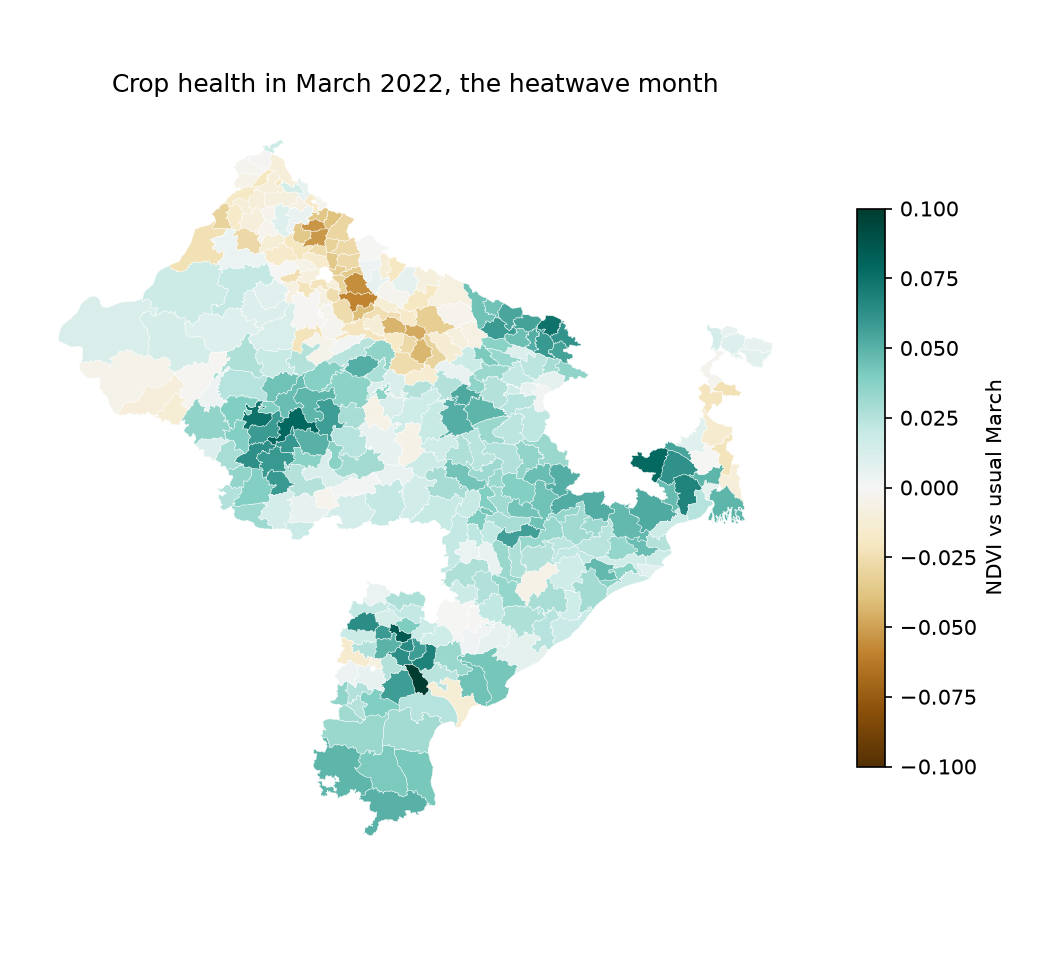
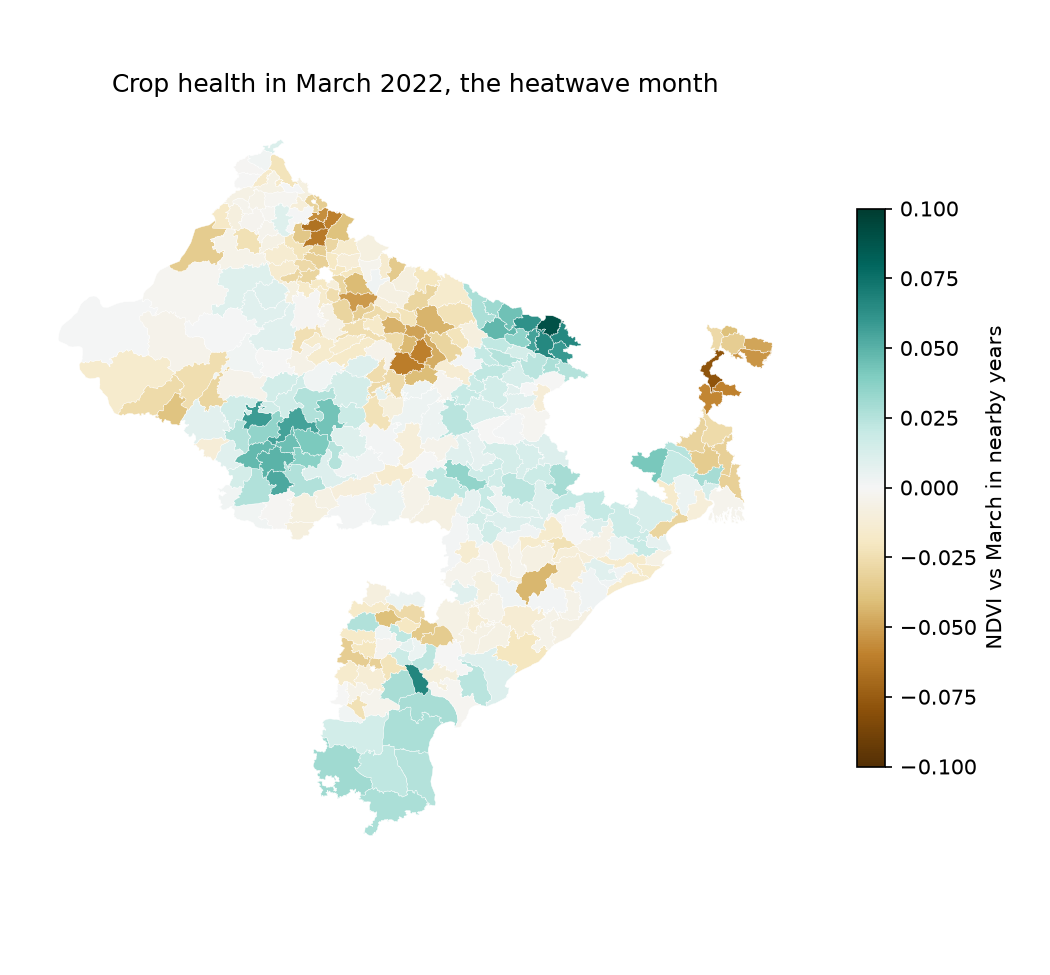
Compare charts with nearby years so the greening trend does not distort them

diff --git a/dashboard/common.py b/dashboard/common.py
@@ -1,12 +1,17 @@
 """Data loading shared by every dashboard page."""
 
 import json
+import sys
 from pathlib import Path
 
 import pandas as pd
 import streamlit as st
 
-DATA_DIR = Path(__file__).resolve().parent.parent / "data"
+PROJECT_ROOT = Path(__file__).resolve().parent.parent
+sys.path.append(str(PROJECT_ROOT / "src"))
+from build_features import nearby_anomaly  # noqa: E402
+
+DATA_DIR = PROJECT_ROOT / "data"
 PROCESSED_DIR = DATA_DIR / "processed"
 RAW_DIR = DATA_DIR / "raw"
 
@@ -26,23 +31,21 @@ MONTH_NAMES += ["Jul", "Aug", "Sep", "Oct", "Nov", "Dec"]
 def load_national() -> pd.DataFrame:
     """National monthly table, one row per crop and month."""
     national = pd.read_csv(PROCESSED_DIR / "national_monthly.csv")
+    national = national.sort_values(["crop", "month"]).reset_index(drop=True)
     national["date"] = pd.to_datetime(national["month"])
-    calendar_month = national["date"].dt.month
+    groups = [national["crop"], national["date"].dt.month]
     for column in ["ndvi", "tmax_c", "rainfall_mm"]:
-        normal = national.groupby(["crop", calendar_month])[column].transform("mean")
-        national[f"{column}_vs_normal"] = national[column] - normal
+        national[f"{column}_vs_normal"] = nearby_anomaly(national[column], groups)
     return national
 
 
 @st.cache_data
 def load_district_ndvi() -> pd.DataFrame:
-    """District NDVI with the difference from the average for that calendar month."""
+    """District NDVI compared with the same month in the years either side."""
     ndvi = pd.read_csv(PROCESSED_DIR / "ndvi_clean.csv")
-    calendar_month = ndvi["month"].str[5:7]
-    normal = ndvi.groupby(["state", "district", calendar_month])["ndvi"].transform(
-        "mean"
-    )
-    ndvi["ndvi_vs_normal"] = (ndvi["ndvi"] - normal).round(3)
+    ndvi = ndvi.sort_values(["state", "district", "month"]).reset_index(drop=True)
+    groups = [ndvi["state"], ndvi["district"], ndvi["month"].str[5:7]]
+    ndvi["ndvi_vs_normal"] = nearby_anomaly(ndvi["ndvi"], groups).round(3)
     ndvi["key"] = ndvi["state"] + "|" + ndvi["district"]
     return ndvi
 

diff --git a/dashboard/pages/1_Crop_health_map.py b/dashboard/pages/1_Crop_health_map.py
@@ -22,8 +22,10 @@ st.set_page_config(page_title="Crop health map", layout="wide")
 st.title("Crop health map")
 st.markdown(
     "NDVI measures how green the cropland is (higher is greener). The map shows each "
-    "district compared with its own average for that calendar month over 2005-2026, so "
-    "green means healthier crops than usual and brown means worse."
+    "district compared with the same month in the five years before and after, so "
+    "green means healthier crops than usual for that time and brown means worse. "
+    "Comparing with nearby years keeps the slow greening of Indian farmland since 2005 "
+    "from making every early year look bad."
 )
 
 ndvi = load_district_ndvi()
@@ -38,9 +40,9 @@ with st.sidebar:
     calendar_month = MONTH_NAMES.index(month_name) + 1
     st.info(SEASON_NOTES[SEASONS.get(calendar_month)])
     st.caption(
-        "Worth a look: March 2022 (heatwave in the wheat belt), August 2009 "
-        "(drought year), and February vs May in any year (before and after the "
-        "wheat harvest)."
+        "Worth a look: March 2022 (heatwave, browner in Haryana and western Uttar "
+        "Pradesh), August 2014 and August 2023 (weak monsoons), and February vs "
+        "May in any year (before and after the wheat harvest)."
     )
 sidebar_about()
 
@@ -78,6 +80,8 @@ st.plotly_chart(figure, use_container_width=True)
 st.caption(
     f"{month_name} {year}. Average across districts: "
     f"{data['ndvi_vs_normal'].mean():+.3f} vs normal. Hover over a district for its "
-    "name and values. Kolkata, Hyderabad and a disputed area are left out because "
-    "they have almost no farmland."
+    "name and values. Years near the start or end of the data can only be compared "
+    "with later or earlier years, so treat 2005, 2006, 2025 and 2026 with a little "
+    "care. Kolkata, Hyderabad and a disputed area are left out because they have "
+    "almost no farmland."
 )

diff --git a/src/make_figures.py b/src/make_figures.py
@@ -8,6 +8,7 @@ from matplotlib.collections import PolyCollection
 from matplotlib.colors import TwoSlopeNorm
 
 import config
+from build_features import nearby_anomaly
 
 MAP_MONTH = "2022-03"
 RULES = ["always_up", "calendar", "momentum"]
@@ -24,13 +25,11 @@ def district_polygons(geojson: dict) -> dict[str, list]:
 
 
 def crop_health_map(path) -> None:
-    """Map of each district's NDVI compared with its usual value for that month."""
+    """Map of each district's NDVI compared with the same month in nearby years."""
     ndvi = pd.read_csv(config.NDVI_CLEAN_CSV)
-    calendar_month = ndvi["month"].str[5:7]
-    normal = ndvi.groupby(["state", "district", calendar_month])["ndvi"].transform(
-        "mean"
-    )
-    ndvi["vs_normal"] = ndvi["ndvi"] - normal
+    ndvi = ndvi.sort_values(["state", "district", "month"]).reset_index(drop=True)
+    groups = [ndvi["state"], ndvi["district"], ndvi["month"].str[5:7]]
+    ndvi["vs_normal"] = nearby_anomaly(ndvi["ndvi"], groups)
     month = ndvi[ndvi["month"] == MAP_MONTH]
     values = dict(zip(month["state"] + "|" + month["district"], month["vs_normal"]))
 
@@ -54,7 +53,9 @@ def crop_health_map(path) -> None:
     ax.autoscale_view()
     ax.set_aspect("equal")
     ax.axis("off")
-    figure.colorbar(collection, ax=ax, shrink=0.6, label="NDVI vs usual March")
+    figure.colorbar(
+        collection, ax=ax, shrink=0.6, label="NDVI vs March in nearby years"
+    )
     ax.set_title("Crop health in March 2022, the heatwave month")
     figure.tight_layout()
     figure.savefig(path, dpi=150)

diff --git a/src/build_features.py b/src/build_features.py
@@ -23,6 +23,24 @@ def past_anomaly(series: pd.Series, calendar_month: pd.Series) -> pd.Series:
     return series - previous
 
 
+def nearby_anomaly(series: pd.Series, groups: list[pd.Series]) -> pd.Series:
+    """Value minus the mean of the same month in the years either side of it.
+
+    For charts only: it looks at later years too, so a model must not use it.
+    Comparing with nearby years stops a slow trend from making every early
+    year look bad and every recent year look good. Rows must be in time order
+    within each group, which should include the calendar month.
+    """
+
+    def compare(values: pd.Series) -> pd.Series:
+        window = values.rolling(2 * config.NEARBY_YEARS + 1, center=True, min_periods=1)
+        others_total = window.sum() - values
+        others_count = window.count() - 1
+        return values - others_total / others_count
+
+    return series.groupby(groups).transform(compare)
+
+
 def crop_features(data: pd.DataFrame) -> pd.DataFrame:
     """Build the features for one crop (rows must be in month order)."""
     features = pd.DataFrame(

diff --git a/tests/test_data_building.py b/tests/test_data_building.py
@@ -63,3 +63,18 @@ def test_parse_grid_reads_rows_even_with_a_garbled_label():
     assert stocks["month"].tolist() == ["2015-01", "2015-02"]
     assert stocks["wheat"].tolist() == [30.0, 40.0]
     assert stocks["rice"].tolist() == [10.0, 20.0]
+
+
+def test_nearby_anomaly_ignores_a_steady_trend():
+    from build_features import nearby_anomaly
+
+    calendar_month = pd.Series([8] * 7)
+    trend = pd.Series([0.40, 0.41, 0.42, 0.43, 0.44, 0.45, 0.46])
+    anomaly = nearby_anomaly(trend, [calendar_month])
+    # A middle year on a straight-line trend is exactly normal for its era.
+    assert anomaly.iloc[3] == pytest.approx(0.0)
+
+    spike = trend.copy()
+    spike.iloc[3] = 0.33
+    # A real bad year still stands out by its full size.
+    assert nearby_anomaly(spike, [calendar_month]).iloc[3] == pytest.approx(-0.10)

diff --git a/src/config.py b/src/config.py
@@ -74,3 +74,6 @@ MIN_HISTORY_YEARS = 3
 # Predictions are scored on months from here on; earlier months are only
 # used for learning.
 EVAL_START = "2012-01"
+
+# Charts compare a month with the same month this many years either side.
+NEARBY_YEARS = 5

diff --git a/README.md b/README.md
@@ -4,7 +4,7 @@ Can satellite pictures of crops predict where Indian grain prices go next? AgriS
 
 ![Crop health in March 2022](reports/figures/crop_health_march_2022.png)
 
-*March 2022: the wheat belt (Punjab, Haryana, western Uttar Pradesh) was browner than usual just before the harvest, during an early heatwave. Wheat prices rose 3.2% that month, and wheat exports were banned in May.*
+*March 2022, during an early heatwave just before the wheat harvest: parts of the wheat belt, especially Haryana and western Uttar Pradesh, were browner than in the same month of nearby years. The heat mostly shrank the grain rather than browning the leaves, so the damage looks milder from space than it was in the fields. Wheat prices rose 3.2% that month, and wheat exports were banned in May.*
 
 ## What I found
 
@@ -112,7 +112,7 @@ Tests: `pytest tests`
 - About 225 months of usable data is not much for a model. The results are stated with that in mind.
 - Fog and monsoon cloud leave a few district-months with too few clear pixels; these are filled from the months either side and flagged.
 - NDVI does not separate crops: in the kharif season it includes cotton and soybean as well as rice.
-- NDVI drifts slightly upward over the years. The model features compare each month with only the previous five years, which absorbs most of this.
+- NDVI drifts slightly upward over the years. The model features compare each month with only the previous five years, which absorbs most of this. The maps and charts compare each month with the five years either side instead, which also uses later years, so they are for looking at the data, not for prediction.
 - Before April 2012 the paddy price is the rice index, and the latest one or two months of WPI are provisional.
 - Government stocks, support prices and export bans partly react to prices, so their links with prices run both ways.
 
